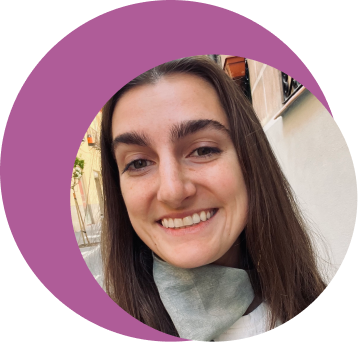
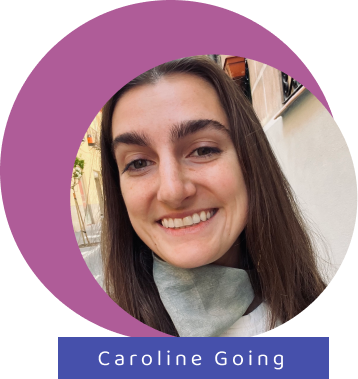
Added full name to about section, cleaned up skills image, updated links with target=_blank when appropriate to keep users on the page

diff --git a/src/components/Header/Navigation/Navigation.css b/src/components/Header/Navigation/Navigation.css
@@ -111,7 +111,7 @@ input[type="checkbox"]:checked ~ span:nth-of-type(3){
   color: #FFF;
   text-align: center;
   font-family: 'Hubballi', cursive;
-  font-size: 1.3rem;
+  font-size: 1.5rem;
   font-style: normal;
   font-weight: 400;
   line-height: normal;
@@ -123,12 +123,12 @@ input[type="checkbox"]:checked ~ span:nth-of-type(3){
   display: flex;
   flex-wrap: wrap;
   margin: 20px 0;
-  padding: 0 25px;
+  padding: 0 0 25px 0;
 }
 
 .navigation ul li {
   list-style-type: none;
-  padding-right: 10px;
+  padding-right: 8px;
 }
 
 /* -- Side Nav Menu --*/
@@ -150,7 +150,7 @@ input[type="checkbox"]:checked ~ span:nth-of-type(3){
 #navigation__list {
   width: 60%;
   list-style: none;
-  line-height: 2.5rem;
+  line-height: 2.75rem;
   text-align: left;
   display: block;
   top: 35%;
@@ -160,7 +160,7 @@ input[type="checkbox"]:checked ~ span:nth-of-type(3){
 }
 
 #navigation__list li {
-  font-size: 2rem;
+  font-size: 1.75rem;
   margin: 2rem 0;
   letter-spacing: .15rem;
 }
@@ -183,7 +183,7 @@ input[type="checkbox"]:checked ~ span:nth-of-type(3){
 
 @media (min-width: 48rem){
   .navigation {
-    width: 98%;
+    width: 94%;
   }
 
   .navigation ul li {
@@ -200,6 +200,8 @@ input[type="checkbox"]:checked ~ span:nth-of-type(3){
   }
 
   #navigation-row a {
+    font-family: 'Hubballi', cursive;
+    font-size: 1rem;
     color: #AF5C98;
   }
 

diff --git a/src/components/Footer/Footer.js b/src/components/Footer/Footer.js
@@ -15,9 +15,9 @@ function Footer() {
         <div id="social">
             <h3>Social</h3>
             <div id="logos">
-                <a href="https://www.linkedin.com/in/caroline-going-a2b4ab122/"><img src={LinkedIn} alt="LinkedIn Logo"/></a>
-                <a href="https://github.com/cgoing2215"><img src={GitHub} alt="GitHub Logo"/></a>
-                <a href="https://medium.com/@carolinegoing2"><img src={Medium} alt="Medium Logo"/></a>
+                <a href="https://www.linkedin.com/in/caroline-going-a2b4ab122/" target="_blank" rel="noopener noreferrer"><img src={LinkedIn} alt="LinkedIn Logo"/></a>
+                <a href="https://github.com/cgoing2215" target="_blank" rel="noopener noreferrer"><img src={GitHub} alt="GitHub Logo"/></a>
+                <a href="https://medium.com/@carolinegoing2" target="_blank" rel="noopener noreferrer"><img src={Medium} alt="Medium Logo"/></a>
             </div>
         </div>
       </div>

diff --git a/src/components/About/About.js b/src/components/About/About.js
@@ -16,8 +16,8 @@ function About() {
           modern design.
         </p>
         <p>
-          Within two months, I completed the <a href="https://skillcrush.com/">SkillCrush</a> Break-Into-Tech bootcamp, 
-          learning FE languages alongside fundamental web design principles. I built out numerous <a href="#portfolio-section-container">projects</a>, sites, and 
+          Within two months, I completed the <a href="https://skillcrush.com/" target="_blank" rel="noopener noreferrer">SkillCrush</a> Break-Into-Tech bootcamp, 
+          learning FE languages alongside fundamental web design principles. I built out numerous <a href="#portfolio">projects</a>, sites, and 
           applications that allow for varied user experiences, and crafted designs that appeal to broad audiences. 
         </p>
         <p>

diff --git a/src/components/PortfolioHeader/Projects/Projects.js b/src/components/PortfolioHeader/Projects/Projects.js
@@ -28,9 +28,10 @@ function Projects() {
         img={StickyNotes}
         alt="Sticky Notes App"
         description="Interactive app that lets 
-        users create “sticky notes” on their computer 
-        to keep track of to-do items. Made using ES6, JSX. 
-        App manages data flow, and manipulates the DOM."
+        users create, edit, search through and delete “sticky notes” 
+        on their computer to help keep track of to-do's. Made 
+        using ES6, JSX. App operates on lifecycle methods, 
+        manages data flow, and manipulates the DOM."
         skills="HTML, CSS, Javascript, React"
         link="https://sticky-note-app-kappa.vercel.app/"
       />

diff --git a/src/components/About/About.css b/src/components/About/About.css
@@ -4,7 +4,7 @@
     background-image: url("./img/headshot.png");
     background-size: 16rem;
     background-repeat: no-repeat;
-    background-position: 95% 4%;
+    background-position: 95% 2%;
 }
 
 #about h3{
@@ -65,7 +65,6 @@
     width: 20rem;
     height: auto;
     margin: 0 0 .75rem 0;
-    flex-shrink: 1;
 }
 
 #resume-btn {
@@ -115,7 +114,7 @@
 
     #lang-proficiencies img {
         width: 80%;
-        max-width: 26rem;
+        max-width: 23rem;
     }
 
     #resume-btn {

diff --git a/src/components/Header/Header.css b/src/components/Header/Header.css
@@ -77,7 +77,7 @@
     #intro-section {
         background-size: 120%;
         padding-top: 4rem;
-        height: 60vh;
+        height: 70vh;
     }
 
     #intro-section h1 {

diff --git a/src/App.css b/src/App.css
@@ -4,7 +4,10 @@
   width: 100%;
   height: 100%;
   animation: fadeInAnimation 1s;
+  scroll-behavior: smooth;
 }
+
+
 
 .App-logo {
   pointer-events: none;
